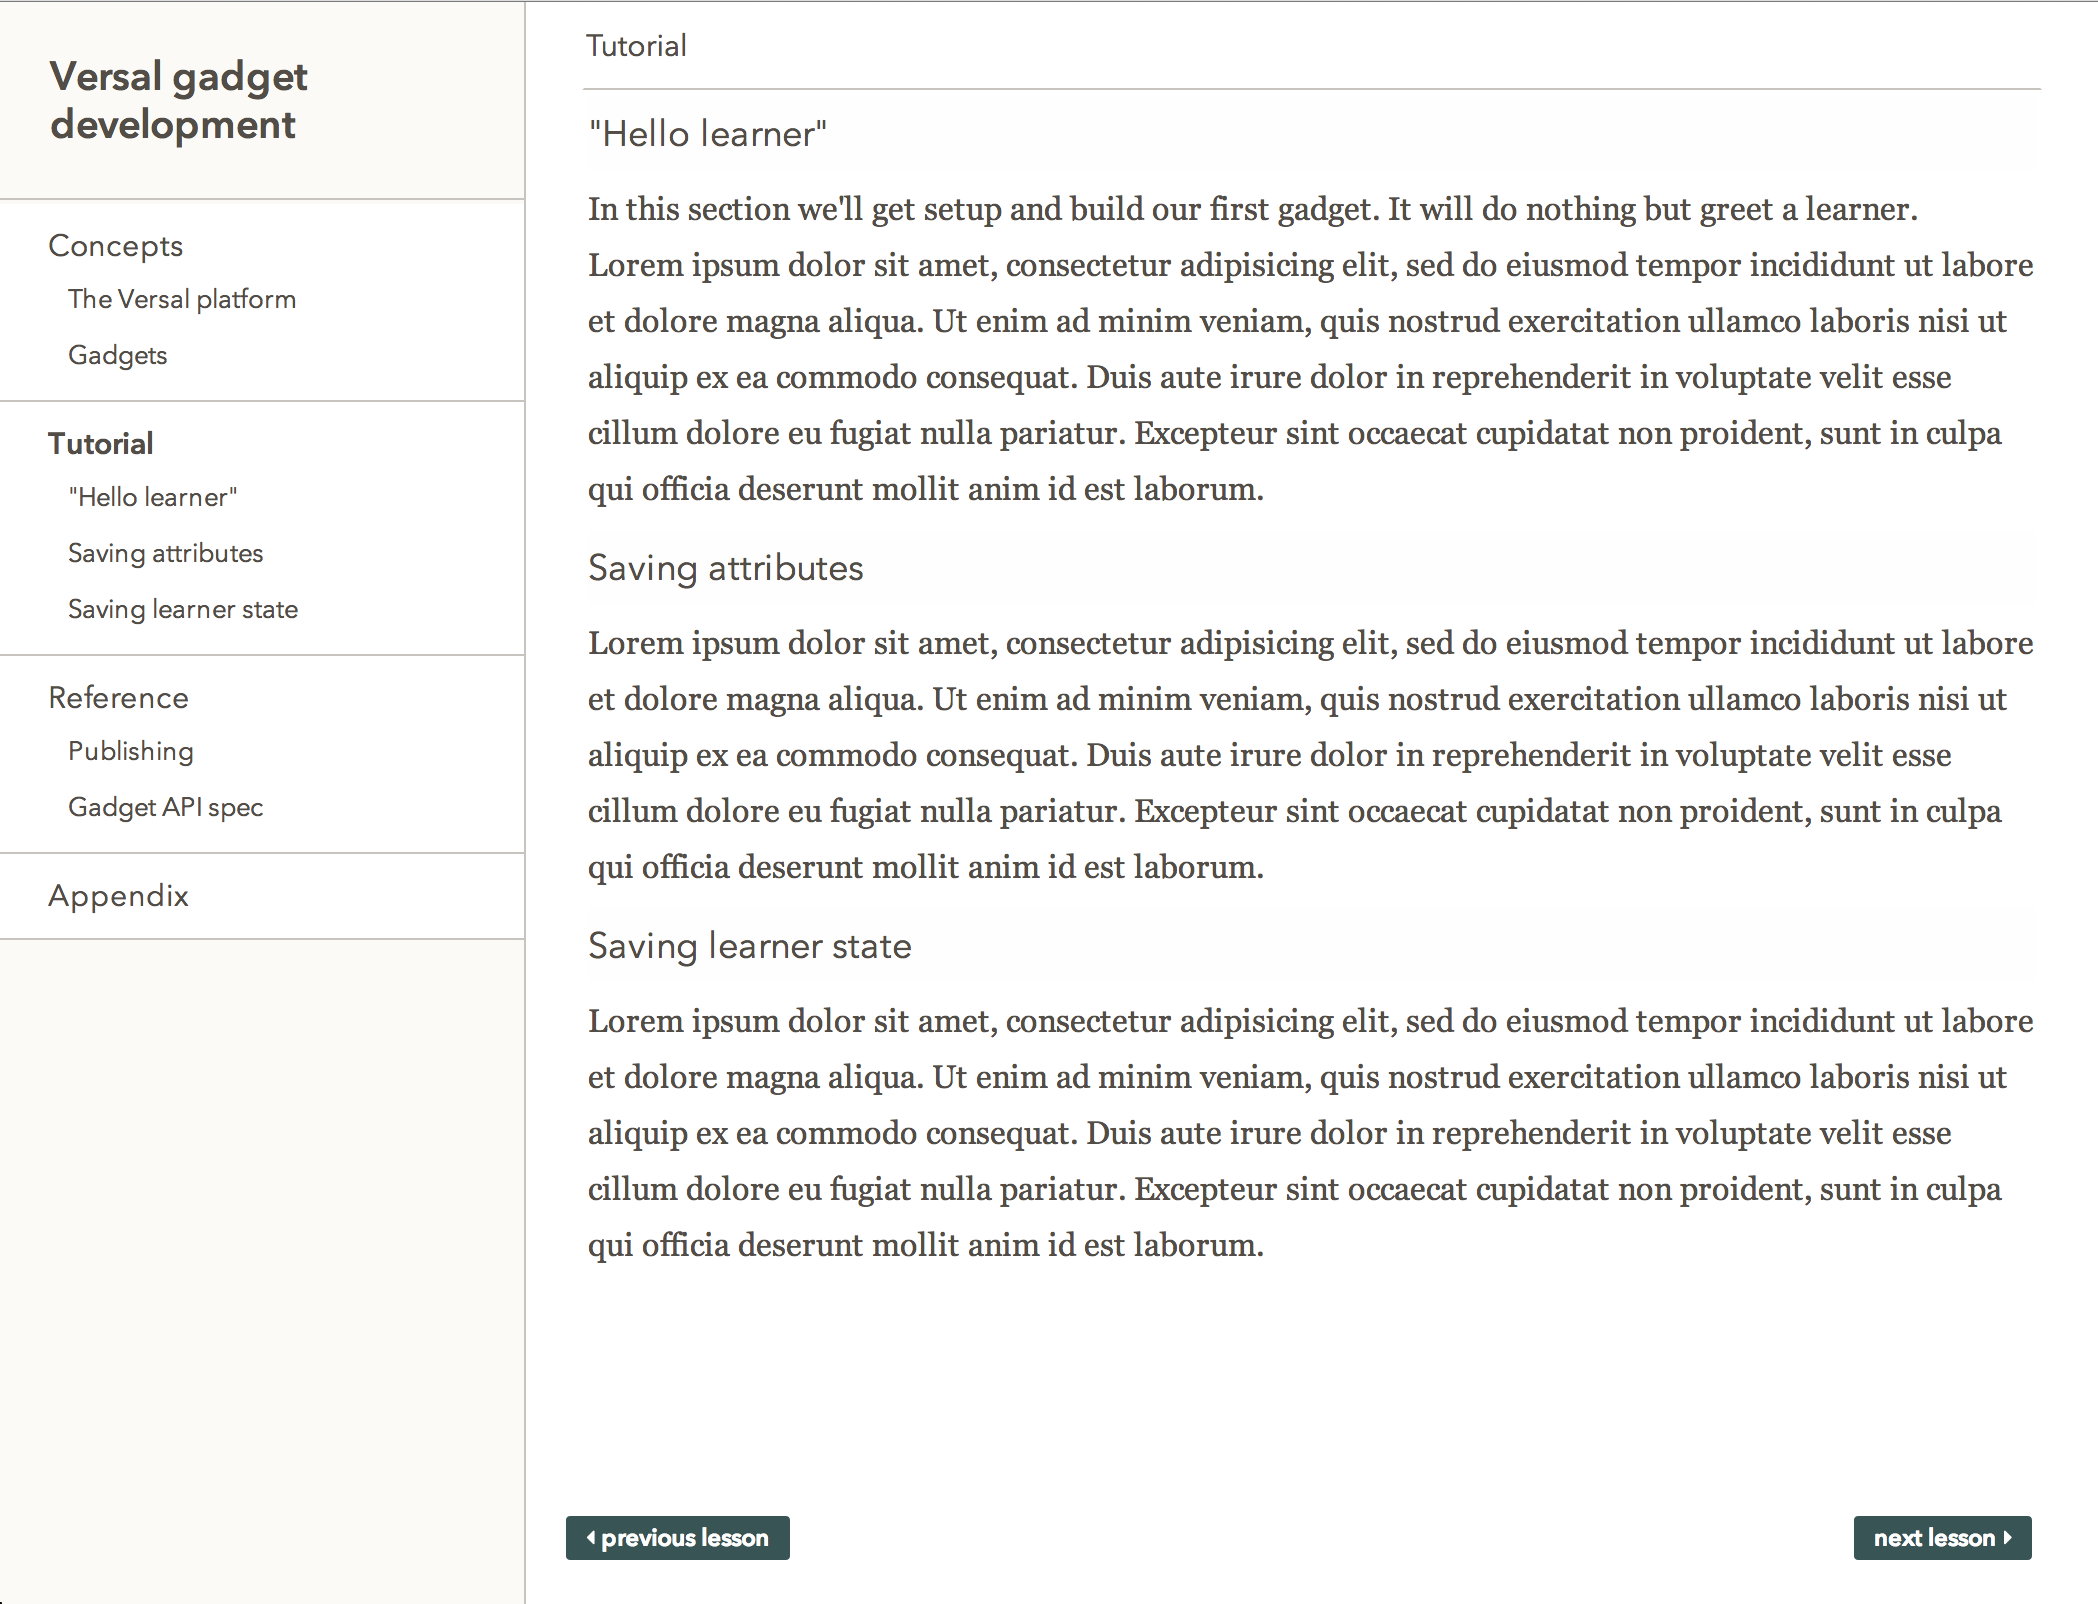
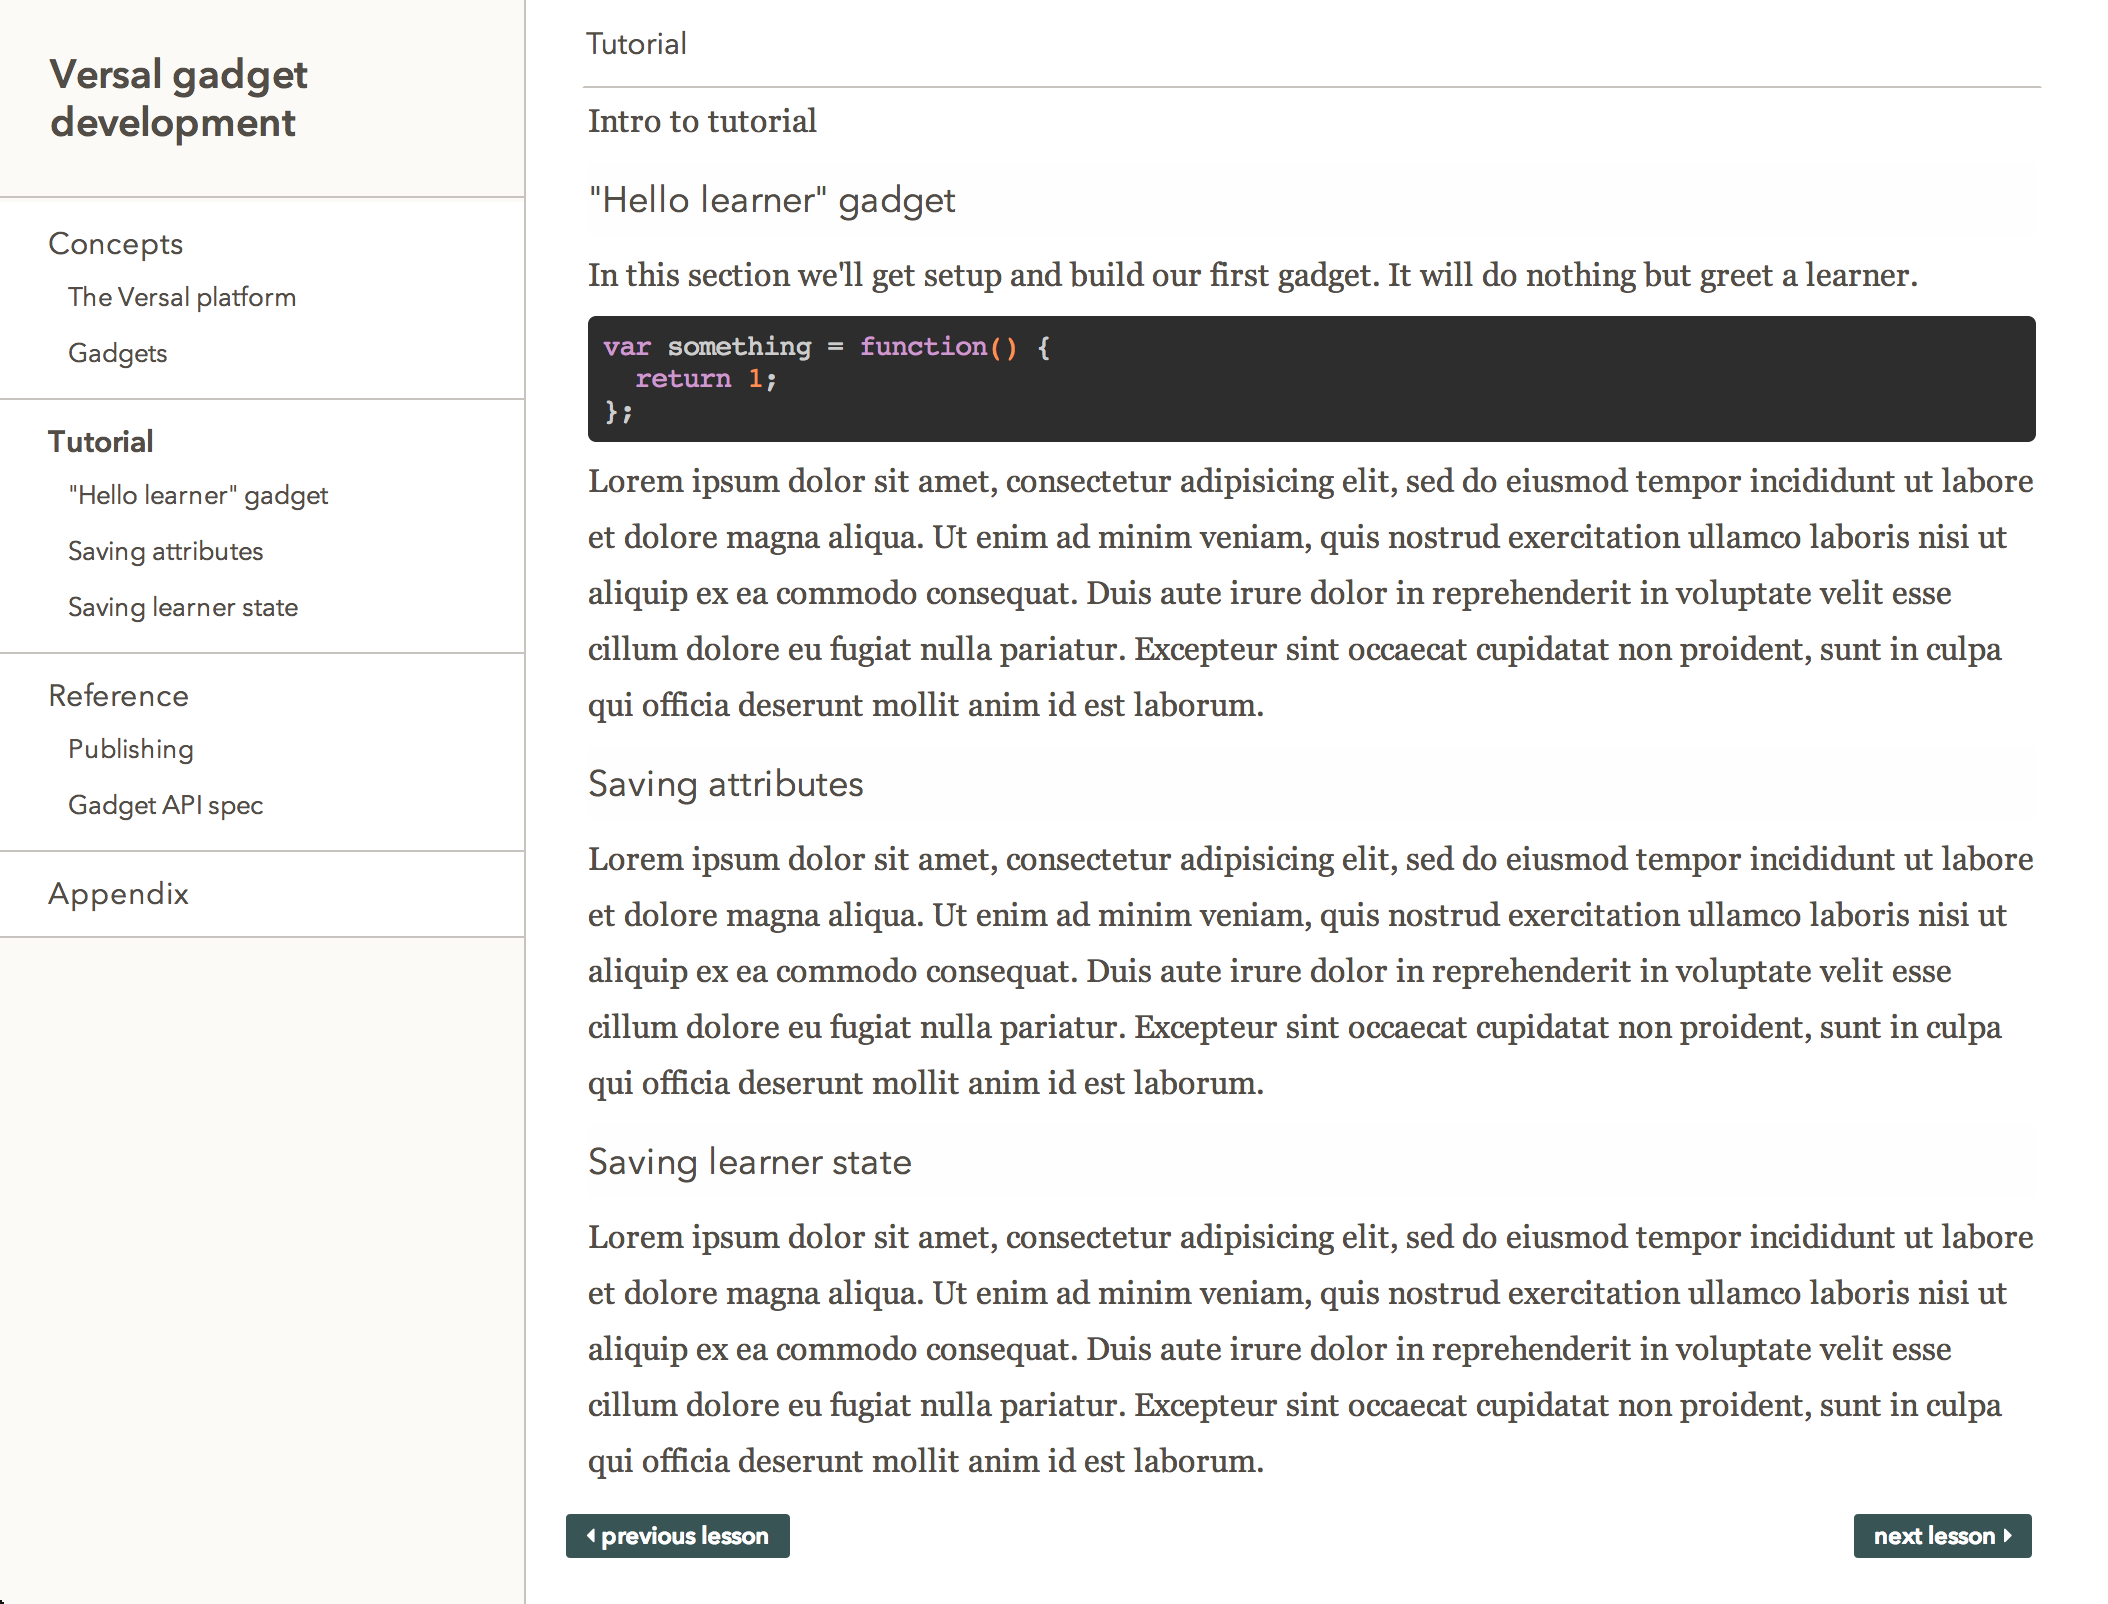
Use highlightr gadget for code blocks

diff --git a/example.md b/example.md
@@ -22,6 +22,12 @@ Intro to tutorial
 
 In this section we'll get setup and build our first gadget. It will do nothing but greet a learner.
 
+```
+var something = function() {
+  return 1;
+};
+```
+
 Lorem ipsum dolor sit amet, consectetur adipisicing elit, sed do eiusmod tempor incididunt ut labore et dolore magna aliqua. Ut enim ad minim veniam, quis nostrud exercitation ullamco laboris nisi ut aliquip ex ea commodo consequat. Duis aute irure dolor in reprehenderit in voluptate velit esse cillum dolore eu fugiat nulla pariatur. Excepteur sint occaecat cupidatat non proident, sunt in culpa qui officia deserunt mollit anim id est laborum.
 
 ## Saving attributes

diff --git a/README.md b/README.md
@@ -10,9 +10,13 @@ A CLI that converts a markdown document to Versal course JSON
 
 * H2's delimit sections. The section header will be titled after the H2 and everything under it will be converted to markdown gadgets.
 
+* Code blocks are rendered as Highlightr gadgets
+
 *Note: only "#" style H1s are currently supported at this time*
 
 ## Example
+
+A simple course in markdown format might look like this
 
 ```markdown
 ---
@@ -34,8 +38,9 @@ Some more info in another section
 # Second lesson
 
 The second lesson needs some content too
-
 ```
+
+See [./example.md](example.md) for a more complex course
 
 ## Usage
 
